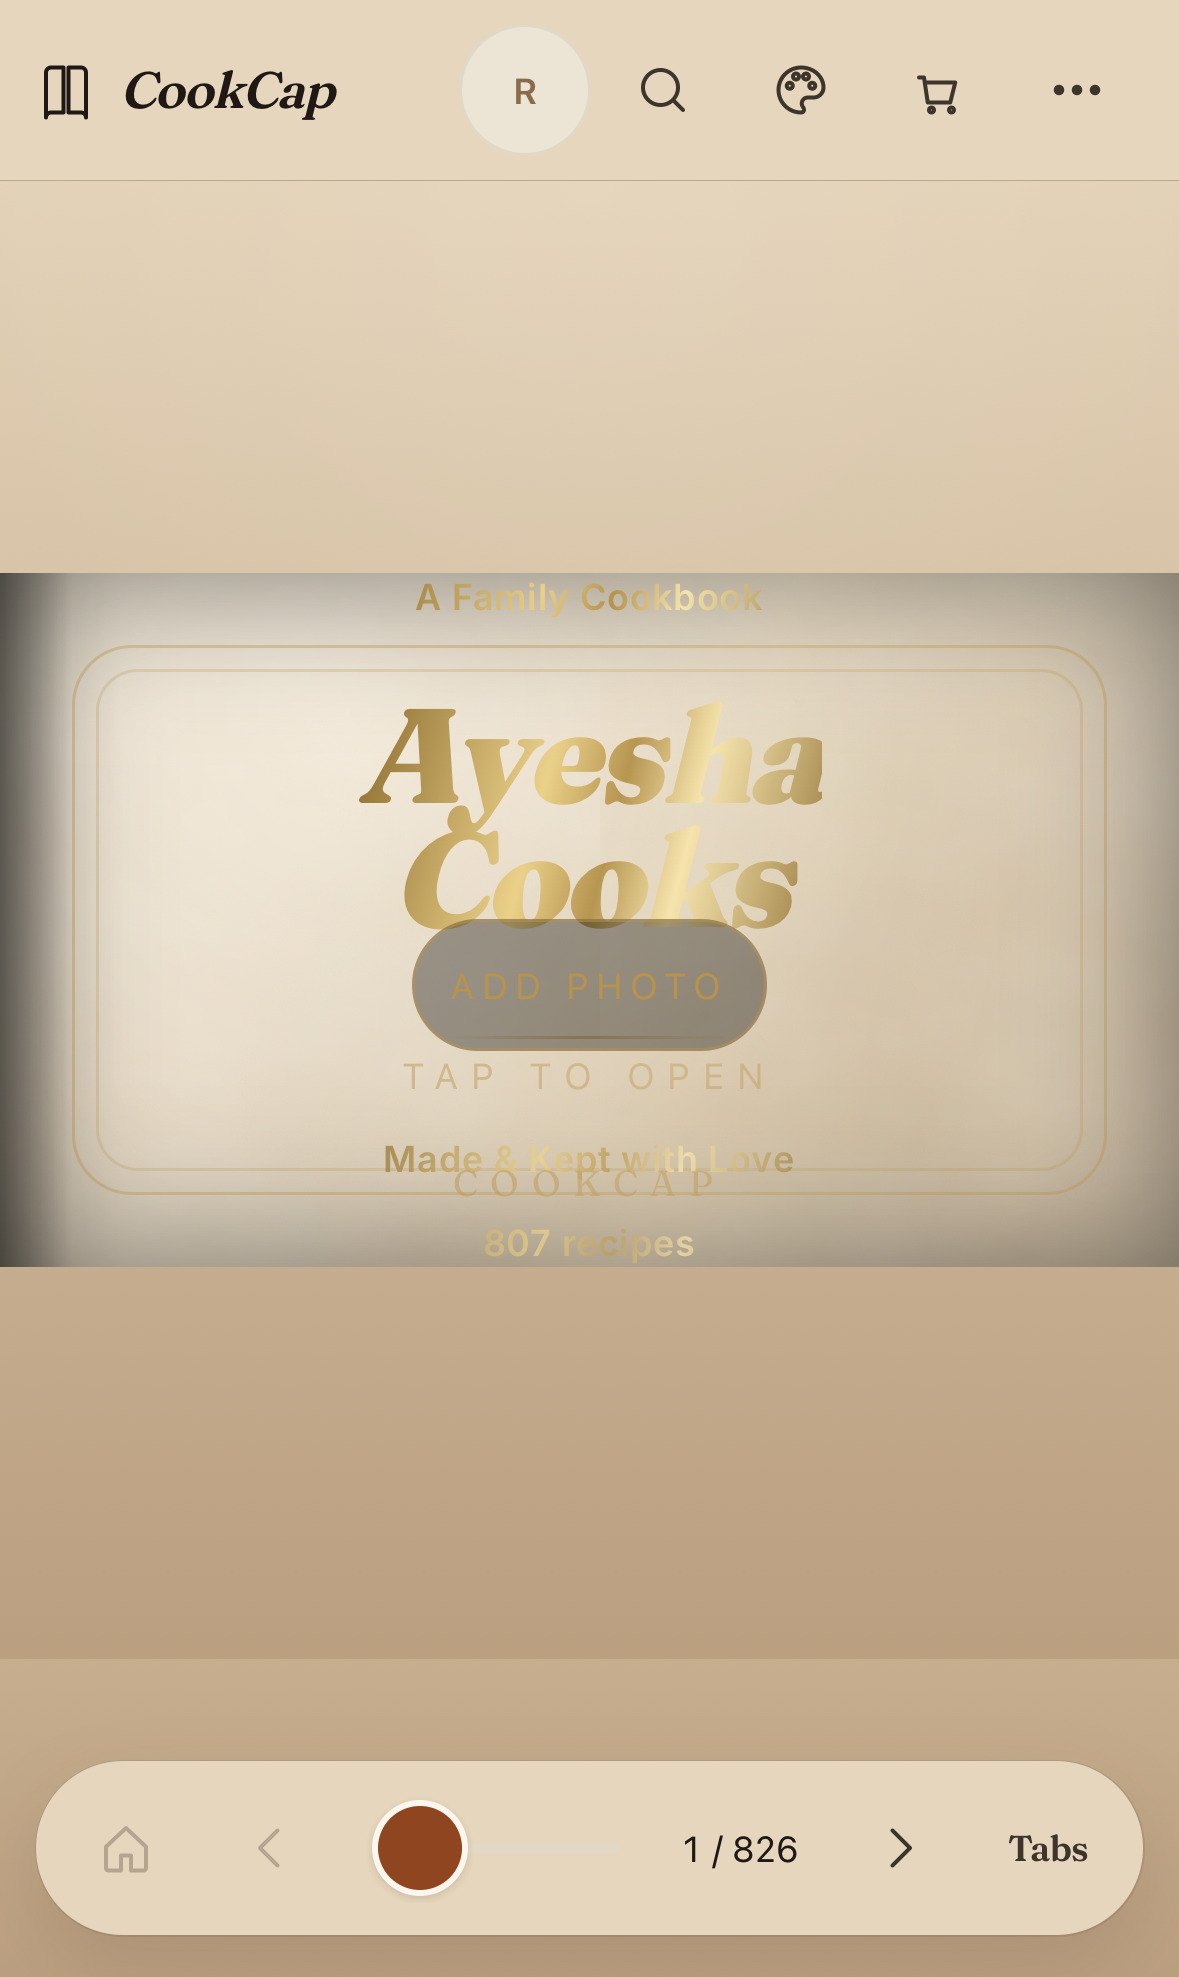
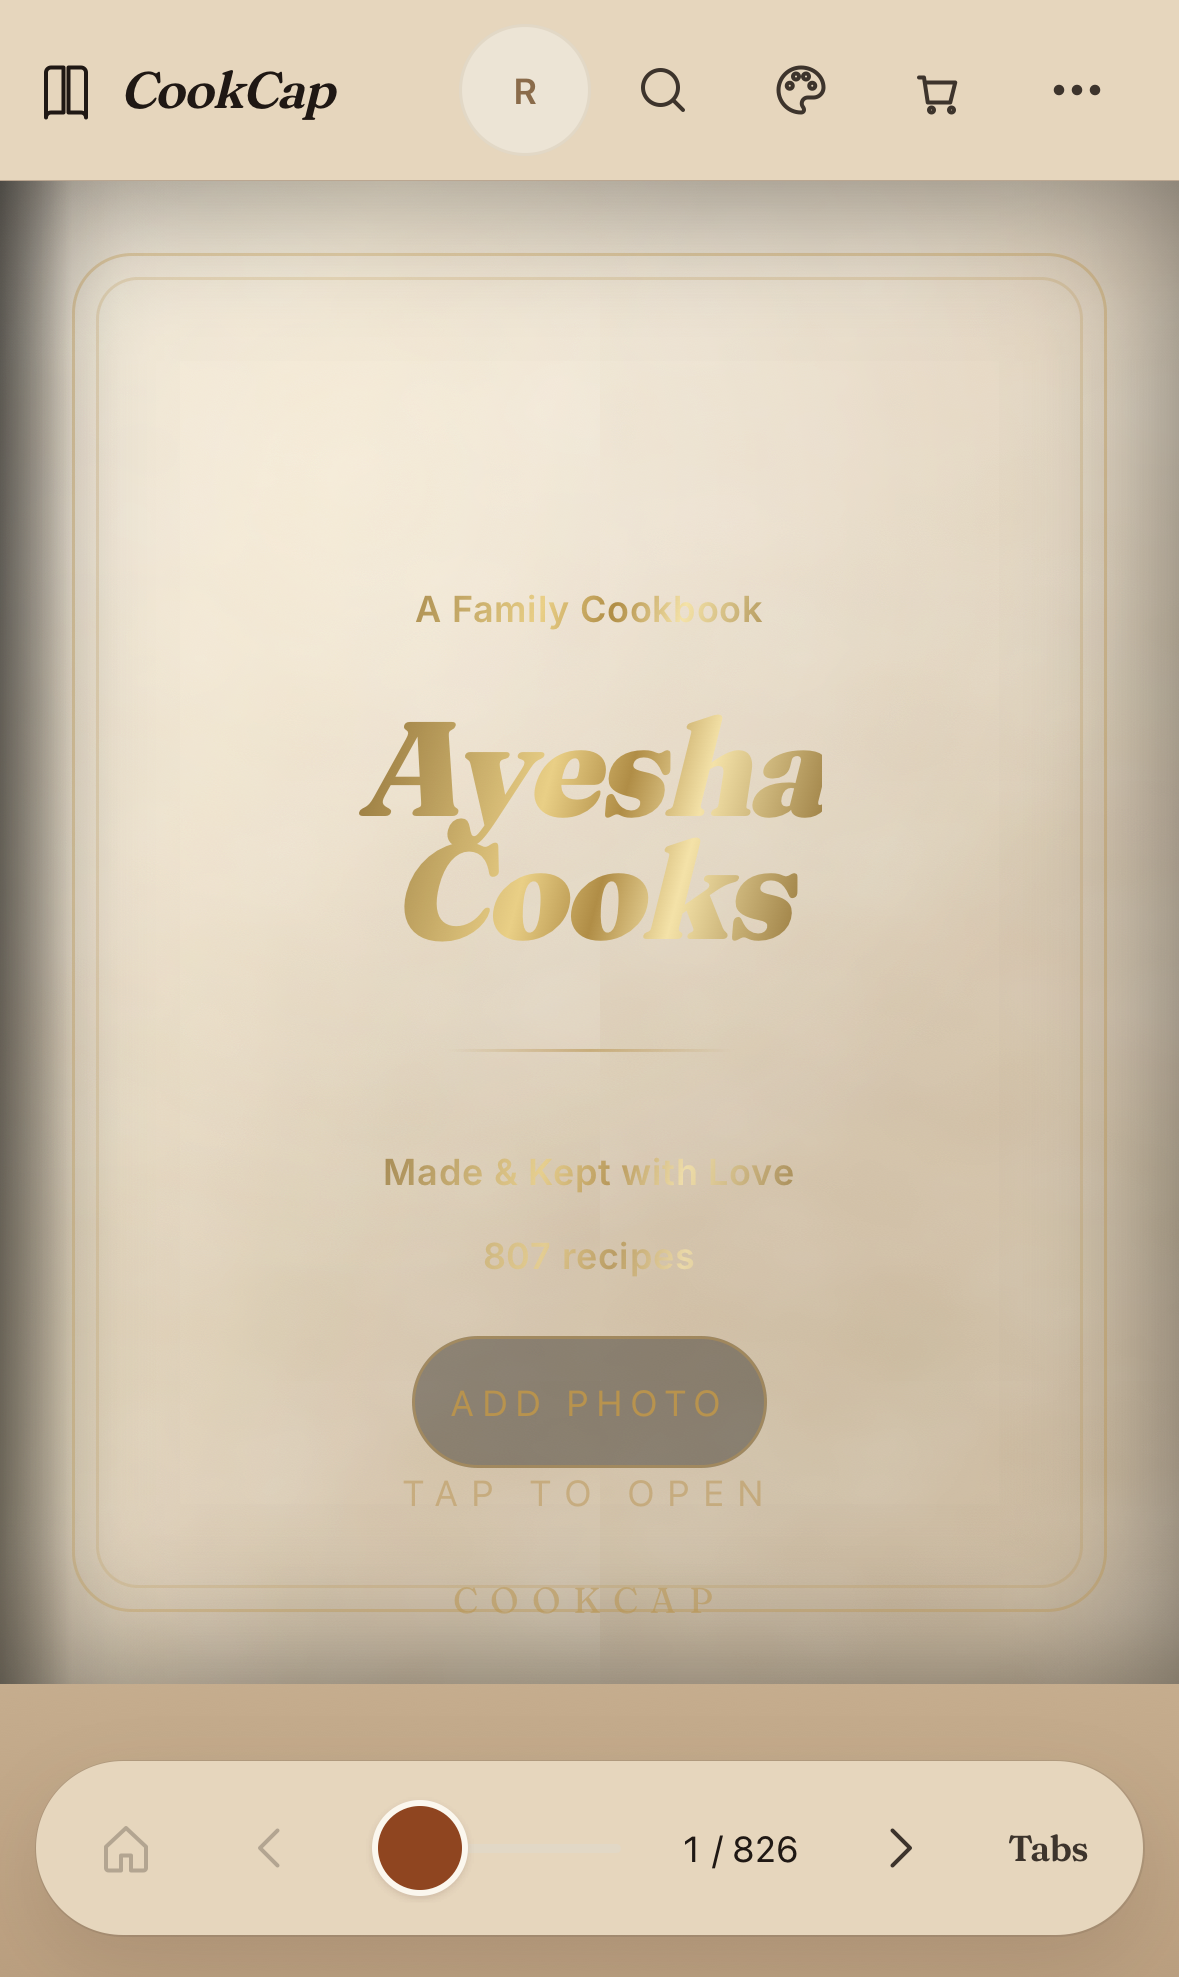
fix(design): restore book shell 100dvh height chain for HIG cover
height:auto on .journal-desk collapsed flex/percent leaf sizing to ~35vh
with overlapping cover chrome. Keep document scroll + glass bar; give the
desk a definite 100dvh so cover/contents/recipe/last leaves fill again.

diff --git a/src/design/cookcap.css b/src/design/cookcap.css
@@ -17,12 +17,29 @@ body {
   overscroll-behavior-y: auto;
 }
 
+/*
+  Book reader is a full-height surface: .book-stage → .book-table → .book-frame → leaf
+  all use flex:1 / height:100%. Those % heights need a definite containing block.
+  Do NOT set height:auto on .journal-desk — that collapses the cover to ~content size
+  (~35vh) and stacks absolute cover chrome on top of itself.
+  Footer is position:fixed (out of flow); padding-bottom clears the glass page bar.
+  html/body stay overflow:auto (no overflow:hidden) for iOS rubber-band.
+*/
 .journal-desk {
   min-height: 100dvh;
-  height: auto !important;
-  /* Room for floating glass page bar */
+  height: 100dvh;
+  /* Room for floating glass page bar — leaf content ends above this band */
   padding-bottom: calc(var(--tabbar-h) + 48px + env(safe-area-inset-bottom, 0px));
   box-sizing: border-box;
+}
+
+/* Floor for the stage so percent-height leaves never shrink if flex math wobbles.
+   Desk padding-bottom already clears the glass bar; do not also pad leaf scrollers
+   (that would double-count empty space inside the page). */
+.journal-desk .journal-stage {
+  min-height: calc(
+    100dvh - var(--header-h) - var(--safe-t) - (var(--tabbar-h) + 48px + env(safe-area-inset-bottom, 0px))
+  );
 }
 
 /* ---------- Floating glass page bar (CookCap's bottom chrome) ---------- */

diff --git a/src/components/book/Shell.tsx b/src/components/book/Shell.tsx
@@ -156,7 +156,7 @@ function Frame() {
   const firstRunGate = needsName;
 
   return (
-    <div className="journal-desk flex min-h-[100dvh] flex-col">
+    <div className="journal-desk flex h-[100dvh] min-h-[100dvh] flex-col">
       <a href="#book-main" className="sr-only skip-to-book">
         Skip to book
       </a>

diff --git a/qa/hig/REPORT.md b/qa/hig/REPORT.md
@@ -1,12 +1,40 @@
 # CookCap HIG 3 — report (`design/hig-3`)
 
 **Date:** 2026-10-25  
-**Branch:** `design/hig-3` (local commit only — no push / PR per agent brief)  
+**Branch:** `design/hig-3` (local commits only — no push / PR per agent brief)  
 **Accent:** copper terracotta `#8f4520` (`--tint` fills) / `#6e3418` (`--tint-text` on light) — Jia Cooks brand lock.
 
 ## Verdict
 
 HIG design system + iPhone chrome recipe landed on Next.js static export without rewriting the hardcover book metaphor. Floating glass page bar, ScrollLock sheets, SW wait-for-user, copper tokens. Leaf `[data-leaf-scroll]` inner scrollers remain intentional.
+
+**Fix round:** cover-height regression from `73cd72d` is fixed. Book shell keeps a definite `100dvh` height so the flex / `height:100%` leaf chain fills the area between header and glass bar; `html`/`body` stay free of `overflow:hidden`.
+
+## Cover-height regression (fix round)
+
+### Cause
+
+`73cd72d` moved chrome to document scroll (HIG iPhone recipe) by setting `.journal-desk { height: auto !important }` in `src/design/cookcap.css` and `min-h-[100dvh]` on the Shell. The book stage still sizes with `flex:1` + `height:100%` (`.book-stage` → `.book-table` → `.book-frame` → leaf). Percentage heights need a **definite** containing-block height; `height:auto` collapsed that chain, so the cover leaf shrank to ~content (~35% viewport), vertically centred, with absolute cover chrome overlapping (`ADD PHOTO` on title, tagline on `COOKCAP`, recipe count clipped).
+
+### Fix
+
+| File | Change |
+|---|---|
+| `src/design/cookcap.css` | Restore `.journal-desk { height: 100dvh }` (drop `height:auto !important`). Keep `padding-bottom: calc(var(--tabbar-h) + 48px + safe-area)` so the fixed glass bar clears leaf content. Keep `html`/`body` `overflow-y: auto`. Add `.journal-stage` min-height floor matching chrome-free space. |
+| `src/components/book/Shell.tsx` | Restore `h-[100dvh]` (with `min-h-[100dvh]`) on `.journal-desk`. |
+
+### Verification (geometry)
+
+Phone 390×844-class (Playwright iPhone 15 Pro CSS 393×659) light + dark; iPad 1180×820:
+
+| Leaf | Page | Fill (frame/vh) | Gap above glass bar | Overlaps |
+|---|---|---|---|---|
+| Cover | 1 | ~0.76 phone / ~0.84 iPad | ≥8px | none (title / ADD PHOTO / brand) |
+| Contents | 4 | same | same | none |
+| Recipe (chapter→recipe) | 7 | same | same | none |
+| Last (back of book) | 826 | same | same | none |
+
+Desk `padding-bottom` = 106px ≥ footer 58 + 40 (ios-behaviour-check). `body` overflow-y = `auto` (not `hidden`).
 
 ## Files changed (high level)
 
@@ -16,46 +44,34 @@ HIG design system + iPhone chrome recipe landed on Next.js static export without
 | Kit / lock | `src/components/kit/index.tsx`, `src/lib/scroll-lock.ts`, `src/lib/a11y/dialog.ts` |
 | Shell / sheets | `src/components/book/Shell.tsx`, `FavoritesDrawer.tsx`, `ShoppingDrawer.tsx` |
 | SW / version | `public/sw.js` (`cookcap-v375`), `src/lib/version.ts`, `VERSION*`, `package.json` |
-| Verify / docs | `scripts/ios-behaviour-check.mjs`, `DESIGN.md`, `CHANGELOG.md`, `qa/hig/*`, `playwright.config.ts` (port 8831) |
+| Verify / docs | `scripts/ios-behaviour-check.mjs`, `scripts/hig-verify-leaves.mjs`, `DESIGN.md`, `CHANGELOG.md`, `qa/hig/*` |
 
 ## ios-behaviour-check
 
-| | origin/main | design/hig-3 |
+| | origin/main | design/hig-3 (post-fix) |
 |---|---|---|
 | Result | **7 FAIL / 8 PASS** | **15 PASS / 0 FAIL** |
 | Evidence | `qa/hig/ios-check-origin-main.txt` | `qa/hig/ios-check-branch.txt` |
 
-### origin/main FAIL
-
-- page bar floats ≥14px above bottom  
-- page bar is fixed (glass float) — `relative`  
-- content padding clears page bar  
-- body not overflow:hidden — `hidden`  
-- sheet flow (ScrollLock)  
-- SW: skipWaiting only on user request  
-- SW: no auto clients.claim  
-
-### design/hig-3
-
-All listed checks PASS (chrome tappable, ≥44pt, glass float, padding, overflow, ScrollLock sheet, inputs ≥16px, SW wait).
-
 ## Playwright e2e (`e2e/finish.spec.ts`)
 
-| | origin/main (served `/tmp` archive build) | design/hig-3 |
+| | origin/main | design/hig-3 |
 |---|---|---|
 | Count | **1 passed** | **1 passed** |
 | Evidence | `qa/hig/e2e-origin-main.txt` | `qa/hig/e2e-branch.txt` |
 
-Also: `npm run typecheck`, `npm run lint` (existing hook warnings only), `npm run build` green on branch.
+Also: `npm run lint` (existing hook warnings only), `npm run typecheck`, `npm run build` green on branch.
 
 ## Evidence PNGs
 
-- `before-phone-light.png` / `after-phone-light.png`  
-- `after-phone-dark.png` / `after-ipad.png`  
+- `before-phone-light.png` — origin/main cover (full-height leaf)  
+- `after-phone-light.png` / `after-phone-dark.png` / `after-ipad.png` — post-fix cover  
+- `after-*-contents.png` / `after-*-recipe.png` / `after-*-last.png` — leaf-type fill checks  
+- `pairs-phone-light.png` / `pairs-phone-dark.png` / `pairs-ipad.png` — before\|after side-by-side, labelled  
 
 ## Known gaps
 
 1. **Leaf inner scrollers** — recipe/contents leaves keep `overflow-y: auto` on `[data-leaf-scroll]` (book page metaphor). Documented as intentional PASS in the check.  
-2. **Glass sidebar ≥700px** — chapter bookmark rail remains the wide-layout dock; page bar stays a bottom float (not converted into a module sidebar).  
+2. **Glass sidebar ≥700px** — chapter bookmark rail remains the wide-layout dock; page bar stays a bottom float.  
 3. **Not every drawer** migrated to Cancel/Title/Done chrome (Favorites + Shopping done; Profiles/Plan/etc. still legacy headers — ScrollLock applies via `useDialogA11y`).  
-4. **No push / PR** — agent brief forbids push; commit stays local on `design/hig-3`.
+4. **No push / PR** — agent brief forbids push; commits stay local on `design/hig-3`.
